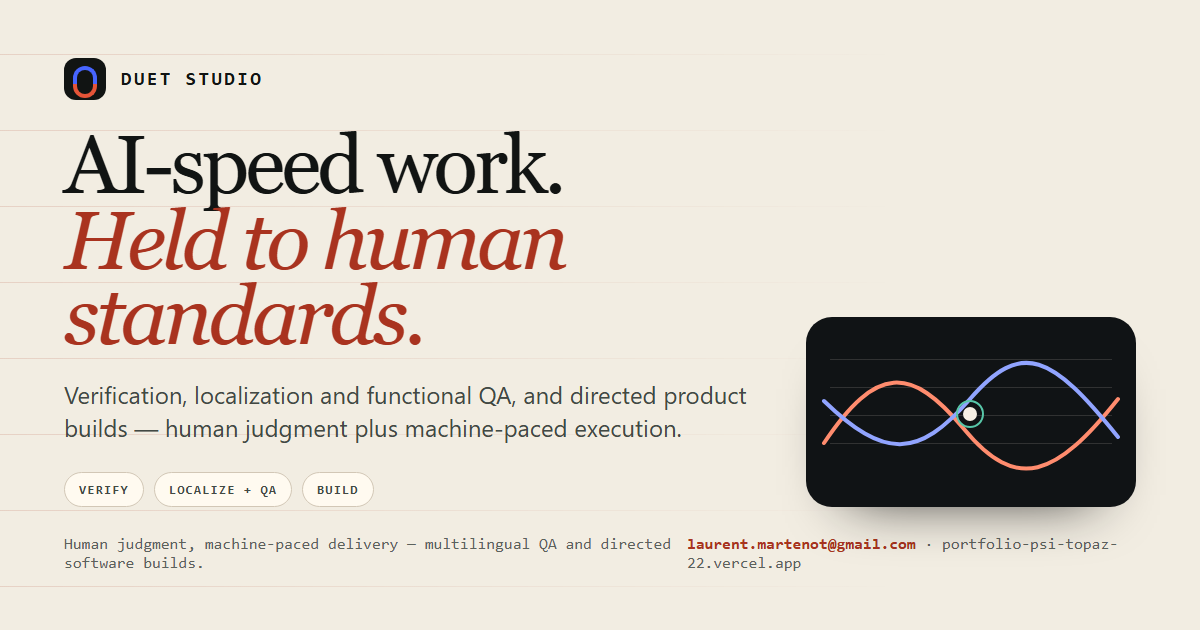
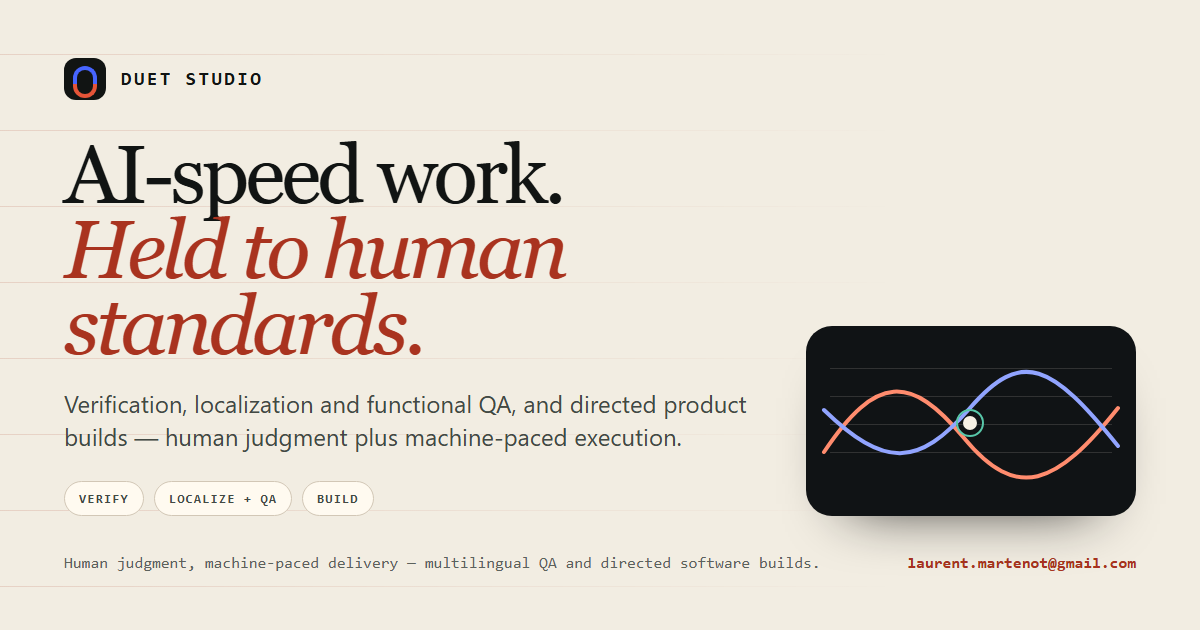
Polish Duet Studio execution details
Generated with [Devin](https://devin.ai)

diff --git a/src/styles/site.css b/src/styles/site.css
@@ -1254,51 +1254,3 @@ button { color: inherit; }
   }
   .ds-nav a { padding-block: 0.22rem; }
 }
-
-/* ---------- Studio pivot additions ---------- */
-.ll-nav a.ll-nav-highlight {
-  color: var(--ink);
-  font-weight: 650;
-  border: 1px solid var(--signal);
-  border-radius: 999px;
-  padding: 0.3rem 0.75rem;
-  background: color-mix(in srgb, var(--signal-fill) 10%, transparent);
-}
-.ll-nav a.ll-nav-highlight:hover { color: var(--signal); background-size: 0 0; border-color: var(--ink); }
-.ll-duet { display: grid; gap: 0.75rem; margin-top: 1.35rem; }
-@media (min-width: 34rem) { .ll-duet { grid-template-columns: 1fr 1fr; } }
-.ll-duet > div { border: 1px solid var(--rule-soft); border-radius: 12px; padding: 0.85rem; background: color-mix(in srgb, var(--paper) 55%, transparent); }
-.ll-duet span { display: block; font-family: var(--mono); font-size: 0.64rem; letter-spacing: 0.12em; text-transform: uppercase; color: var(--signal); margin-bottom: 0.4rem; }
-.ll-duet p { font-size: 0.82rem; color: var(--ink-2); margin: 0; }
-.ll-group-title { font-family: var(--mono); font-size: 0.78rem; letter-spacing: 0.14em; text-transform: uppercase; color: var(--ink-2); margin: 2.4rem 0 0; }
-.ll-group-title-build { margin-top: 3rem; color: var(--signal); }
-@media (min-width: 52rem) {
-  .ll-offers-quality { grid-template-columns: repeat(auto-fit, minmax(16.5rem, 1fr)); }
-  .ll-offers-build { grid-template-columns: repeat(2, minmax(0, 1fr)); }
-}
-.ll-steps-three, .ll-steps-four { grid-template-columns: 1fr; }
-@media (min-width: 48rem) {
-  .ll-steps-three { grid-template-columns: repeat(3, 1fr); }
-  .ll-steps-four { grid-template-columns: repeat(4, 1fr); }
-}
-.ll-pair-grid { display: grid; gap: 1rem; margin-top: 2rem; }
-@media (min-width: 52rem) { .ll-pair-grid { grid-template-columns: repeat(3, 1fr); } }
-.ll-pair span { display: block; font-family: var(--mono); font-size: 1rem; letter-spacing: 0.08em; color: var(--signal); margin-bottom: 0.5rem; }
-.ll-pair p { margin: 0; color: var(--ink-2); font-size: 0.92rem; }
-.ll-service-list { display: grid; gap: 0.9rem; margin-top: 2.25rem; }
-.ll-service-row { display: grid; gap: 0.35rem; }
-@media (min-width: 60rem) { .ll-service-row { grid-template-columns: 4rem 16rem minmax(0, 1fr); gap: 1.2rem; align-items: baseline; } }
-.ll-service-row h3 { font-family: var(--serif); font-size: 1.28rem; font-weight: 520; }
-.ll-service-row p { margin: 0; color: var(--ink-2); font-size: 0.92rem; }
-.ll-faq { display: grid; gap: 0.85rem; margin-top: 2rem; }
-.ll-faq details { padding: 1rem 1.15rem; }
-.ll-faq summary { cursor: pointer; font-weight: 620; font-size: 0.98rem; }
-.ll-faq details p { margin: 0.8rem 0 0; color: var(--ink-2); font-size: 0.92rem; }
-.ll-shot-grid { display: grid; gap: 1rem; margin-top: 2rem; }
-@media (min-width: 52rem) { .ll-shot-grid { grid-template-columns: repeat(2, 1fr); } }
-.ll-shot { margin: 0; border: 1px solid var(--rule); border-radius: 14px; overflow: hidden; background: var(--card); }
-.ll-shot figcaption { padding: 0.65rem 0.85rem; font-size: 0.78rem; color: var(--ink-2); border-top: 1px solid var(--rule-soft); }
-
-/* AA contrast for signal actions and selected audience chips. */
-.ll-btn-signal, .ll-lens-btn[aria-pressed='true'] { background: var(--signal); border-color: var(--signal); color: #fff; }
-html[data-theme='dark'] .ll-btn-signal, html[data-theme='dark'] .ll-lens-btn[aria-pressed='true'] { color: #14171d; }

diff --git a/public/site.js b/public/site.js
@@ -70,6 +70,9 @@
     let time = 0;
     let raf = 0;
     let visible = false;
+    let lastFrame = 0;
+    let activeUntil = 0;
+    const frameMs = 1000 / 30;
     const pointer = { x: 0.5, y: 0.5, tx: 0.5, ty: 0.5 };
     const centers = [0.24, 0.55, 0.84];
 
@@ -216,12 +219,24 @@
       drawResolutionMarkers(humanPoints, aiPoints);
     }
 
-    function tick() {
-      time += 0.012;
-      pointer.x += (pointer.tx - pointer.x) * 0.055;
-      pointer.y += (pointer.ty - pointer.y) * 0.055;
-      draw();
-      if (visible && !reducedMotion) raf = window.requestAnimationFrame(tick);
+    function tick(now = 0) {
+      raf = 0;
+      if (!visible || reducedMotion) return;
+      if (now - lastFrame >= frameMs) {
+        const delta = lastFrame ? Math.min((now - lastFrame) / 1000, 0.05) : 1 / 30;
+        time += delta * 0.72;
+        pointer.x += (pointer.tx - pointer.x) * 0.055;
+        pointer.y += (pointer.ty - pointer.y) * 0.055;
+        draw();
+        lastFrame = now;
+      }
+      if (now < activeUntil) raf = window.requestAnimationFrame(tick);
+    }
+
+    function play(duration = 1200) {
+      if (reducedMotion) return;
+      activeUntil = Math.max(activeUntil, performance.now() + duration);
+      if (visible && !raf) raf = window.requestAnimationFrame(tick);
     }
 
     if (!reducedMotion && window.matchMedia('(pointer: fine)').matches) {
@@ -229,25 +244,32 @@
         const rect = frame.getBoundingClientRect();
         pointer.tx = Math.min(1, Math.max(0, (event.clientX - rect.left) / rect.width));
         pointer.ty = Math.min(1, Math.max(0, (event.clientY - rect.top) / rect.height));
+        play(900);
       });
       frame.addEventListener('pointerleave', () => {
         pointer.tx = 0.5;
         pointer.ty = 0.5;
+        play(700);
       });
     }
 
-    if ('IntersectionObserver' in window && !reducedMotion) {
-      const observer = new IntersectionObserver((entries) => {
-        entries.forEach((entry) => {
-          visible = entry.isIntersecting;
-          if (visible && !raf) raf = window.requestAnimationFrame(tick);
-          if (!visible && raf) {
-            window.cancelAnimationFrame(raf);
-            raf = 0;
-          }
-        });
-      }, { threshold: 0.08 });
-      observer.observe(frame);
+    if (!reducedMotion) {
+      if ('IntersectionObserver' in window) {
+        const observer = new IntersectionObserver((entries) => {
+          entries.forEach((entry) => {
+            visible = entry.isIntersecting;
+            if (visible) play(1600);
+            if (!visible && raf) {
+              window.cancelAnimationFrame(raf);
+              raf = 0;
+            }
+          });
+        }, { threshold: 0.08 });
+        observer.observe(frame);
+      } else {
+        visible = true;
+        play(1600);
+      }
     }
 
     window.addEventListener('resize', resize, { passive: true });

diff --git a/README.md b/README.md
@@ -18,6 +18,7 @@ Static [Astro](https://astro.build) site for Duet Studio: verification, localiza
 - `src/content/work.ts` — project names, honest statuses, facts, capabilities, and external links
 - `src/content/pages.ts` — page-specific copy for the main pages
 - `src/content/quality.ts` — QA, French LQA, and AI evaluation page copy
+- `src/content/ui.ts` — shared interface labels, accessibility text, and small reusable UI copy
 - `scripts/generate-assets.mjs` — regenerates `public/og.png`, `public/capability-statement.pdf`, and favicon assets (`npm run assets`)
 
 ## Commands
